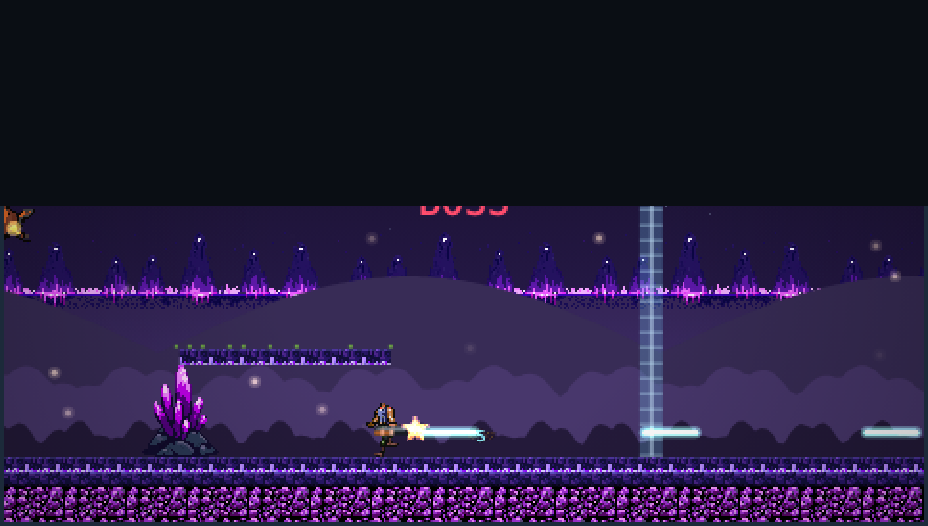
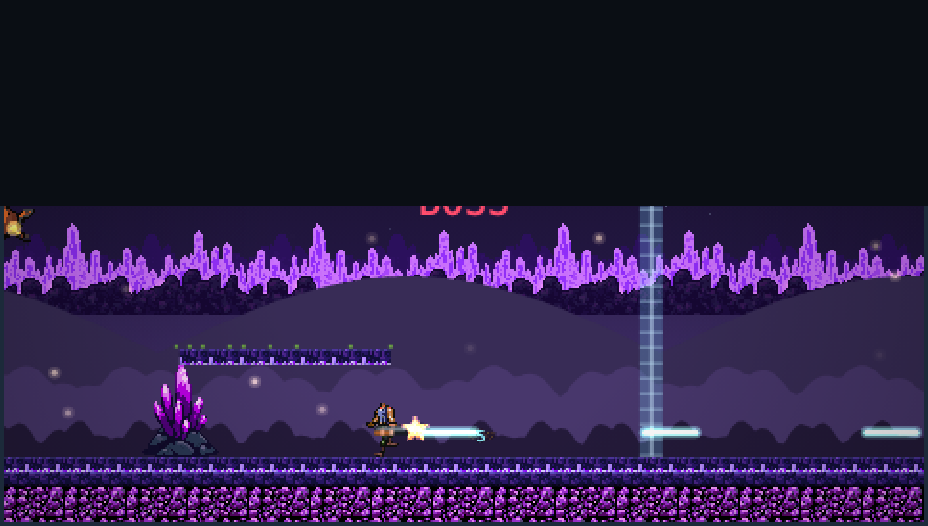
balance: casual walls at S4 from CUMULATIVE ATTRITION (not S4's difficulty) — redirects BAL-2 lever
Re-grounded on the latest merge (root.C added World.casualBossSurvivalTest + eased
S6 Crystal Wing hp 96->82). Full natural casual run STILL walls at S4 (3/7). New
attrition analysis shows why: bot enters S4 with only 1 life because S1 (boss->1HP)
and S2 (boss->2HP) are near-death clears costing 2 lives each; S4 boss barely
dented (58/88) before game-over. So the campaign fails from front-loaded S1/S2 cost,
NOT S4's isolated difficulty — a divergence root.C's ISOLATED fresh-pool
casualBossSurvivalTest structurally cannot see. Redirected BAL-2 fix: ease early-boss
cost (S1/S2) or raise casual life/shield budget, not just late choppers.

Also added a self-verify provenance note: render.stageAssetsIntact IS a live 8/8
CRITICAL check on this branch (not yet on master); one-command check documented to
reconcile the recurring review discrepancy. Re-grounded gate: CRITICAL 8/8 PASS.

Changed region(s): [[0.0, 0.4259, 1.0, 0.6084]]

diff --git a/playtest/balance/BALANCE-REPORT.md b/playtest/balance/BALANCE-REPORT.md
@@ -82,6 +82,32 @@ hard mode still walls at boss 1, correctly awaiting root.C's difficulty-target d
 
 ---
 
+## 🔑 2026-07-12 (latest) — WHY casual walls at S4: CUMULATIVE ATTRITION, not S4's difficulty
+
+root.C added `World.casualBossSurvivalTest` (an **isolated, fresh-pool** per-boss check) and,
+on its evidence, eased **Stage-6 Crystal Wing hp 96→82** ("the ONE boss unbeatable in a fresh
+casual pool"). I adopted the merged build and re-drove the **full natural campaign** — and it
+**still walls at Stage 4 (3/7)**. The two tests measure different things, and the divergence
+is the finding:
+
+| Casual stage | Lives ENTERING | Deaths | Boss floored to | Result |
+|-------------:|:---:|:---:|:---:|--------|
+| S1 Jungle | 5 | 2 | **1/90** (barely) | cleared, 3 left |
+| S2 Cascade | 3 | 2 | **2/78** (barely) | cleared, 1 left |
+| S3 Frozen | 1 | 0 | 5/86 | cleared, 1 left |
+| S4 Desert | **1** | 2 | 58/88 (barely dented) | **GAME OVER** |
+
+**FACT:** casual reaches S4 with only **1 life** because S1 and S2 are *near-death* clears
+(boss to 1 HP and 2 HP, costing 2 lives each). S4 is not individually brutal — a fresh-pool
+test clears it — but the bot **arrives depleted**. So `casualBossSurvivalTest` (isolated) can
+report "all bosses beatable" while the **continuous** campaign is still not completable for a
+baseline run. **Only a full natural-progression run (this seat) sees cumulative attrition; an
+isolated per-boss test structurally cannot.** → The lever for BAL-2 is therefore the **early
+cost of S1/S2** (or the casual life/shield budget), NOT just the late choppers root.C has been
+easing (see updated [BAL-2]).
+
+---
+
 ## THE BOT (honest disclosure — read before trusting the arcade numbers)
 
 The driver is a **baseline** run-and-gun heuristic, **not a skilled human**: always advance
@@ -136,6 +162,13 @@ flag in the gate and it becomes a CRITICAL regression guard.
 | `balance.casualCompletesCampaign` — assist run reaches VICTORY | KNOWN-BUG **BAL-2** | ❌ (tracked) |
 
 Evidence: [`campaign-gate.json`](./campaign-gate.json).
+
+> **Provenance / self-verify (this branch = `loop-root-H`).** `render.stageAssetsIntact` is
+> a live CRITICAL check on THIS branch (8/8). It is **not on `master`** yet — this seat's
+> work propagates to master only when the branch is merged, so a review of `master` will show
+> 7 checks and no `renderPathAudit`. To confirm the branch state directly:
+> `node -e "const g=require('./playtest/balance/campaign-gate.json'); console.log(g.criticalTotal, g.checks.map(c=>c.id))"`
+> → prints `8` and includes `render.stageAssetsIntact`. Re-run `node playtest/balance/campaign-gate.mjs` to regenerate.
 
 ---
 
@@ -357,12 +390,20 @@ referenced decor key loads (no invisible set-dressing). The full matrix is in
   wall **+2 stages** — casual now clears S1/S2/S3 and GAME-OVERs at the **Stage-4 Sand
   Gunship** (deaths 2×, boss floored to 50/88). The mid-campaign chopper is still the wall.
 - **Severity:** low-medium (balance). Casual reaches 3/7.
-- **Cause (measured):** chopper bosses (Stages 2/4/6) take ~2–3× longer to down (sweep
-  off-lane) → more time under fire. See finding #3. BAL-4 helped by preserving DPS across
-  deaths, but the Stage-4 chopper still outlasts the casual budget.
-- **Owner/fix:** root.C — raise chopper effective DPS window or lower its fire tax so casual
-  clears the mid-campaign chopper stages. Recorded, not masked; re-run the gate to confirm
-  casual reaches ≥ Stage 5 after tuning.
+- **⚠️ ROOT CAUSE CORRECTED (2026-07-12, cumulative-attrition analysis):** S4 is **not**
+  individually the wall — the bot enters S4 with only **1 life** because S1 (boss→1 HP) and S2
+  (boss→2 HP) are *near-death* clears costing 2 lives each. At S4 the boss is barely dented
+  (58/88) before the last life is gone. So the campaign walls from **front-loaded cumulative
+  attrition on S1/S2**, not S4's isolated difficulty.
+- **Divergence from `casualBossSurvivalTest`:** root.C's isolated fresh-pool test (each boss,
+  full resources) can report "all bosses beatable" — and it eased S6 (hp 96→82) on that basis —
+  yet the **continuous** natural campaign still fails at S4. An isolated per-boss test cannot
+  see attrition; this seat's full-run grounding is the end-user-truthful signal.
+- **Owner/fix (REDIRECTED):** root.C — the lever is the **early-boss cost** (make S1/S2 clears
+  cheaper — lower HP or fire so the bot doesn't spend ~2 lives each) **and/or** a larger casual
+  **life/shield budget**, NOT just easing the late choppers (S6 hp cut doesn't help a run that
+  dies at S4). Recorded, not masked; re-run the gate to confirm casual reaches ≥ Stage 5 after
+  tuning. Data: `campaign-playthrough.json → damageOn.casual.stages[].{livesRemaining,deaths}`.
 
 ### 2026-07-12 — [BAL-4 / RESOLVED-IN-PART] Mode-gated weapon-on-death shipped and grounded
 - root.C shipped BAL-4 in `game/src/world.js`: **arcade reverts to rifle** (1987 invariant),